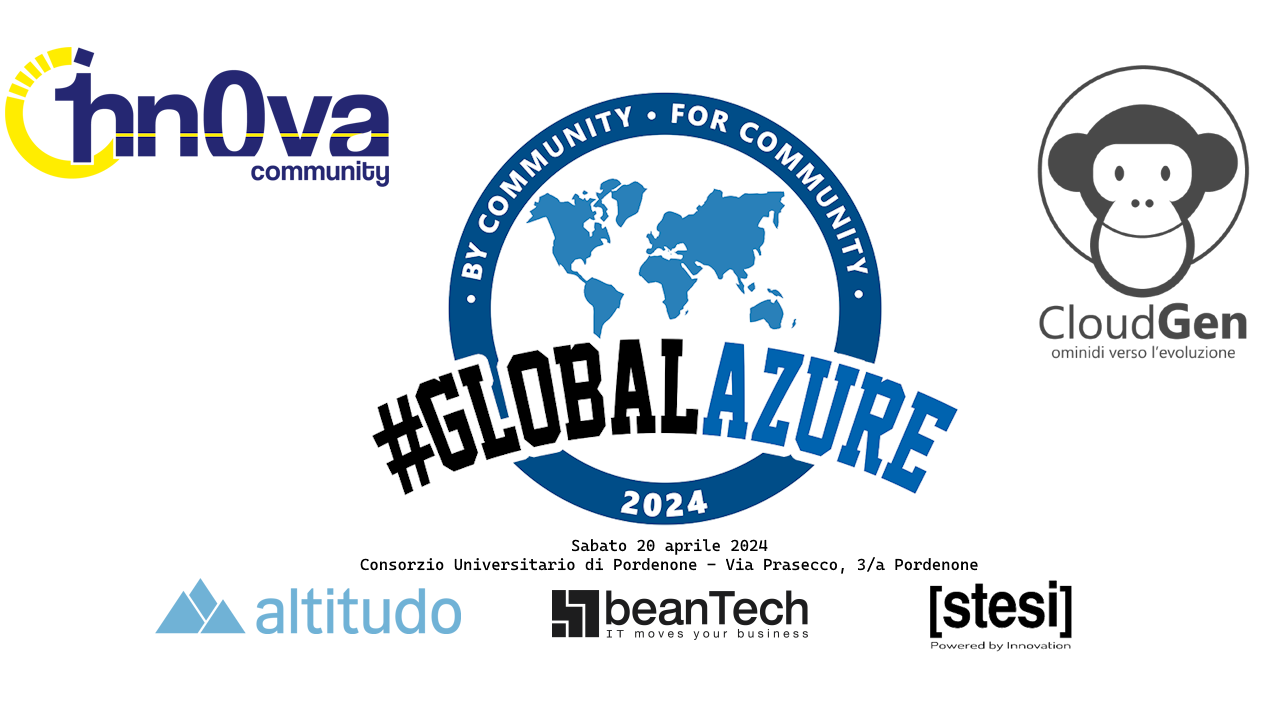
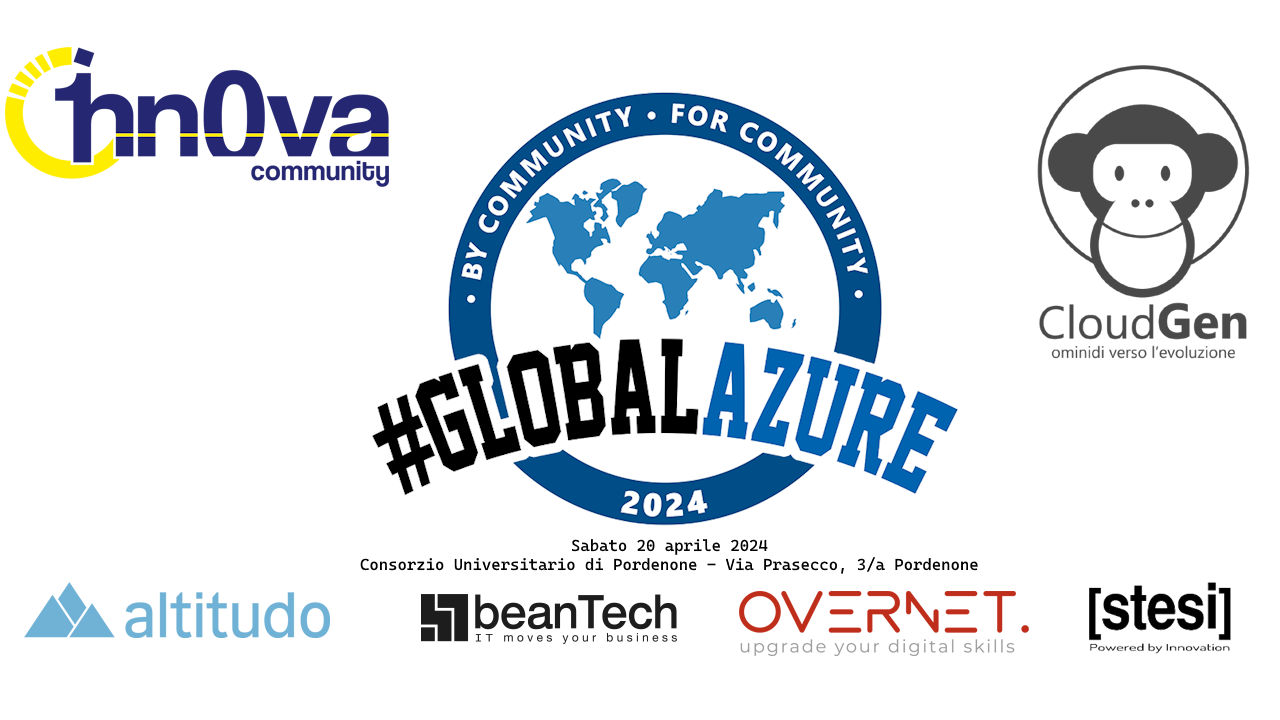
Update image and sponsor

Changed region(s): [[0.0, 0.7944, 0.9688, 0.9167]]

diff --git a/index.html b/index.html
@@ -341,6 +341,30 @@
           <article class="blog-post">
             <h2 class="display-5 link-body-emphasis mb-1">Call for speaker open!</h2>
             <p class="blog-post-meta">
+              February 28, 2024 by <a target="_blank" href="https://www.linkedin.com/in/marcoparenzan/">Marco Parenzan</a>
+            </p>
+
+            <p>
+              Stiamo organizzando il Global Azure 2024 del Triveneto! Se hai una sessione da proporre, clicca <a href="https://sessionize.com/gab2024pn">qui</a>
+            </p>
+            <p>
+                Non abbiamo ancora una agenda, ma intanto se vuoi registrarti, clicca <a href="http://gab2024pn.eventbrite.it/">qui</a>
+              </p>
+              <p>
+                L'evento è gratuito grazie agli sponsor che ringraziamo!
+                <ul>
+                  <li><a href="http://www.altitudo.com/">Altitudo</a></li>
+                  <li><a href="http://www.beantech.it/">beanTech</a></li>
+                  <li><a href="http://www.overnet.education/">Overnet Education</a></li>
+                  <li><a href="http://www.stesi.it/">Stesi Srl</a></li>
+                  <li><a href="http://www.unipordenone.it/">Consorzio Universitario di Pordenone</a></li>
+                </ul>
+              </p>          
+          </article>
+
+          <article class="blog-post">
+            <h2 class="display-5 link-body-emphasis mb-1">Call for speaker open!</h2>
+            <p class="blog-post-meta">
               January 18, 2024 by <a target="_blank" href="https://www.linkedin.com/in/marcoparenzan/">Marco Parenzan</a>
             </p>
 
